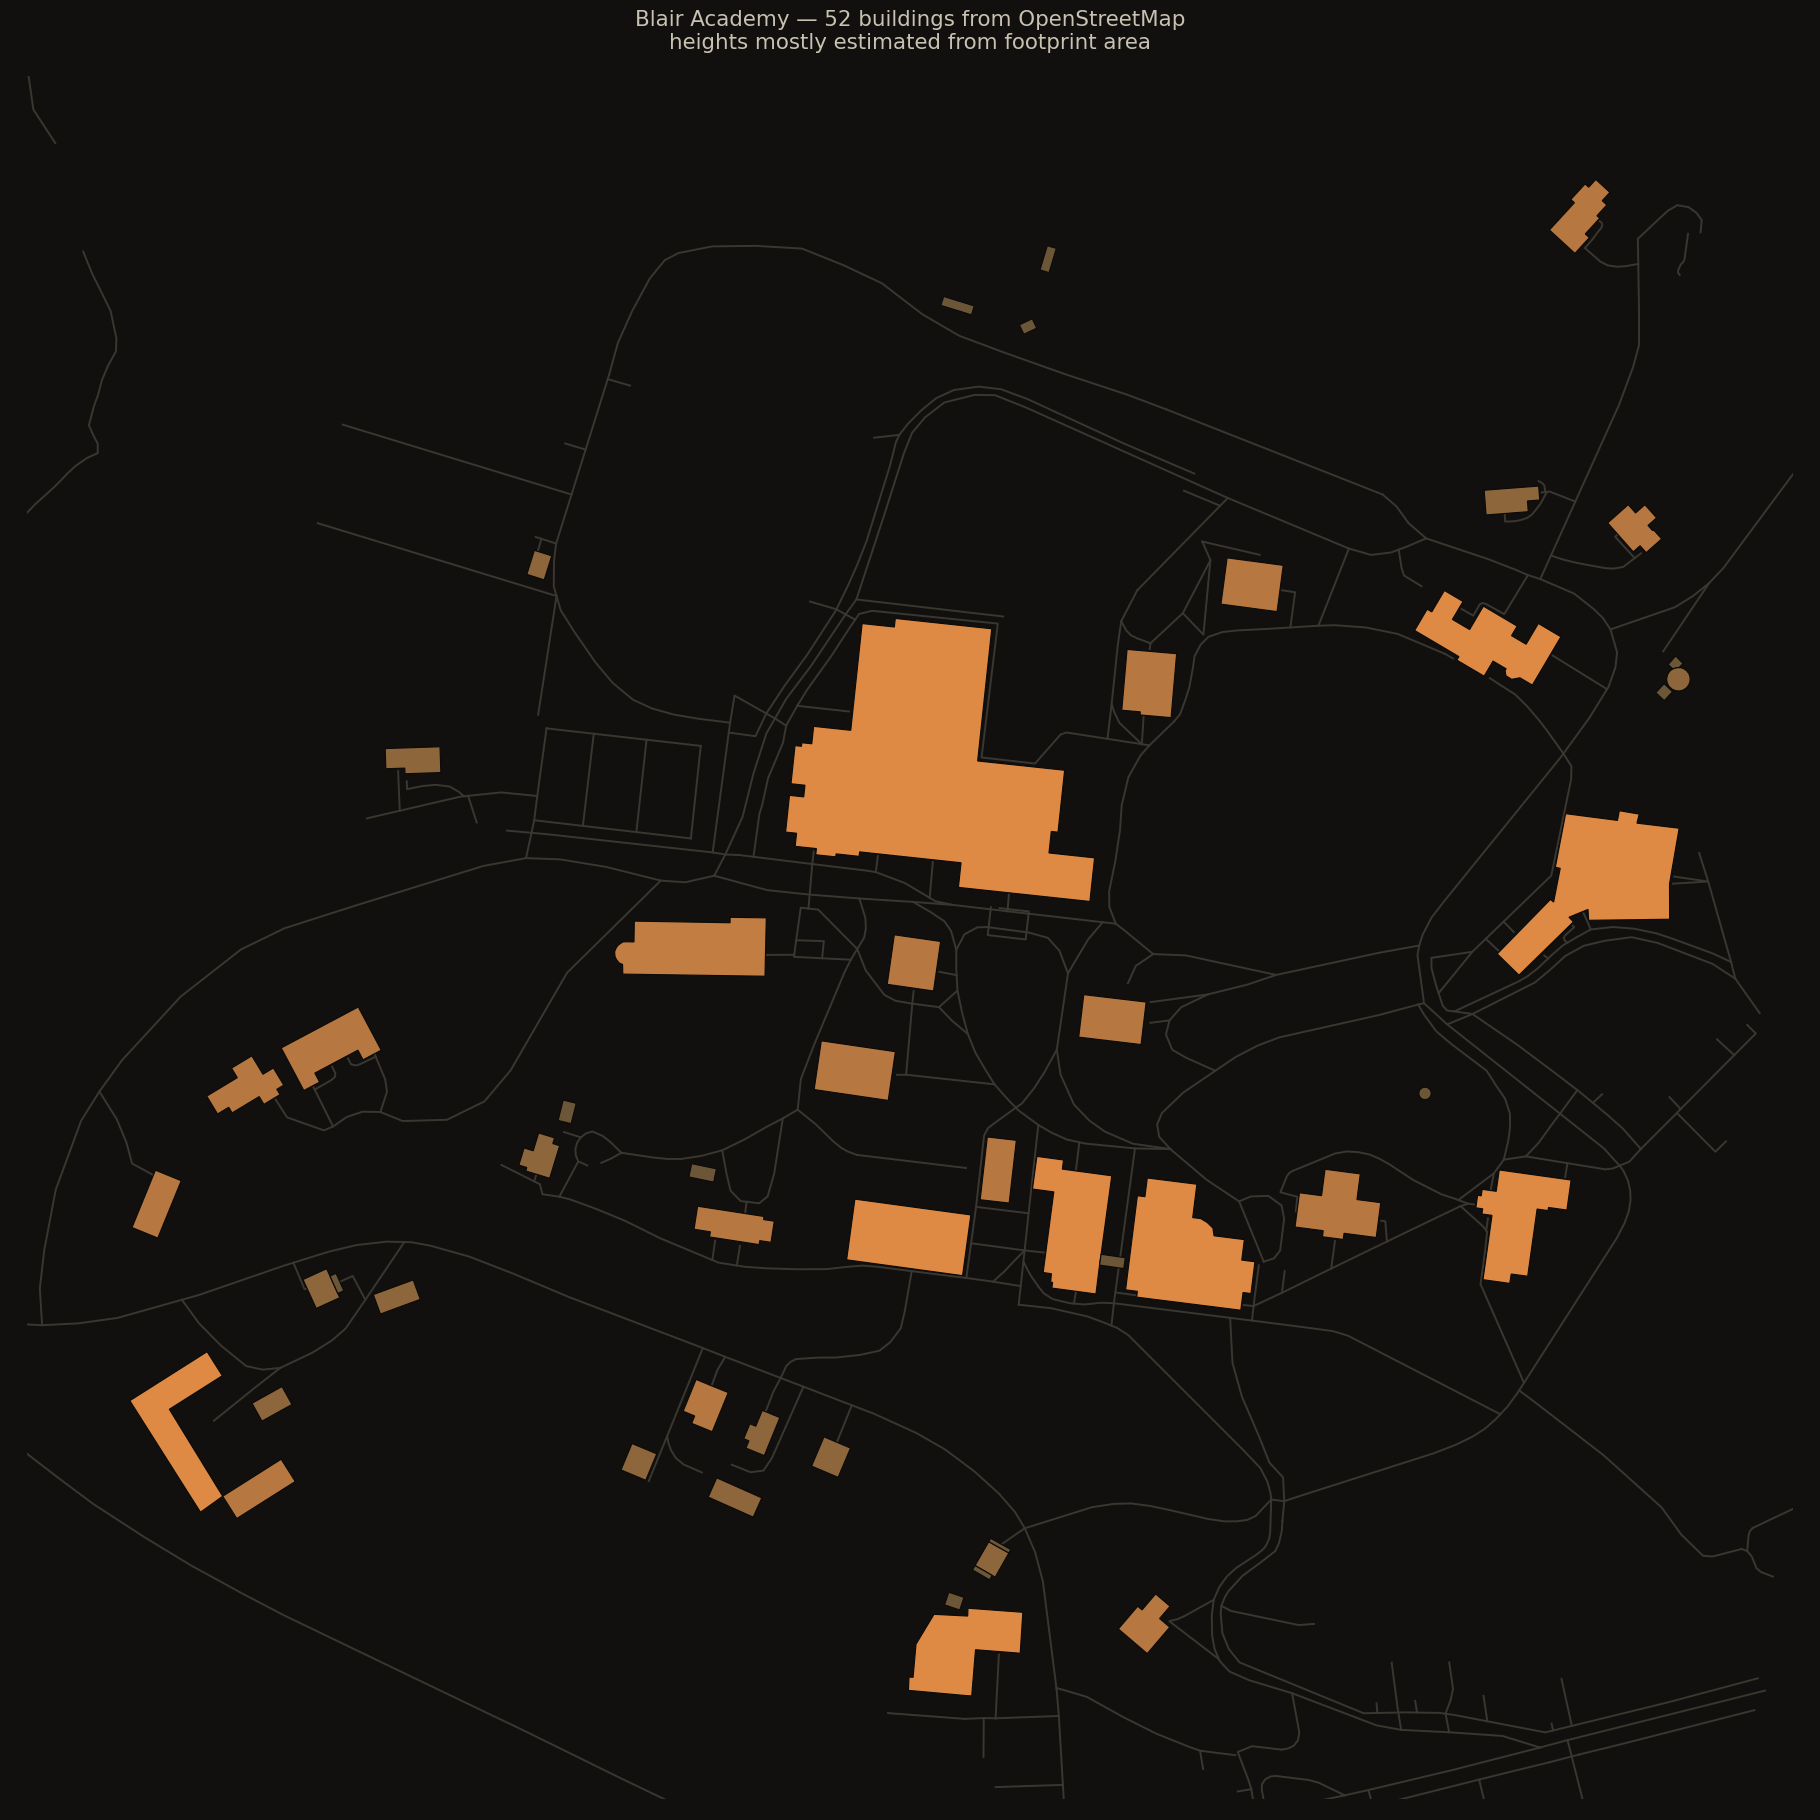
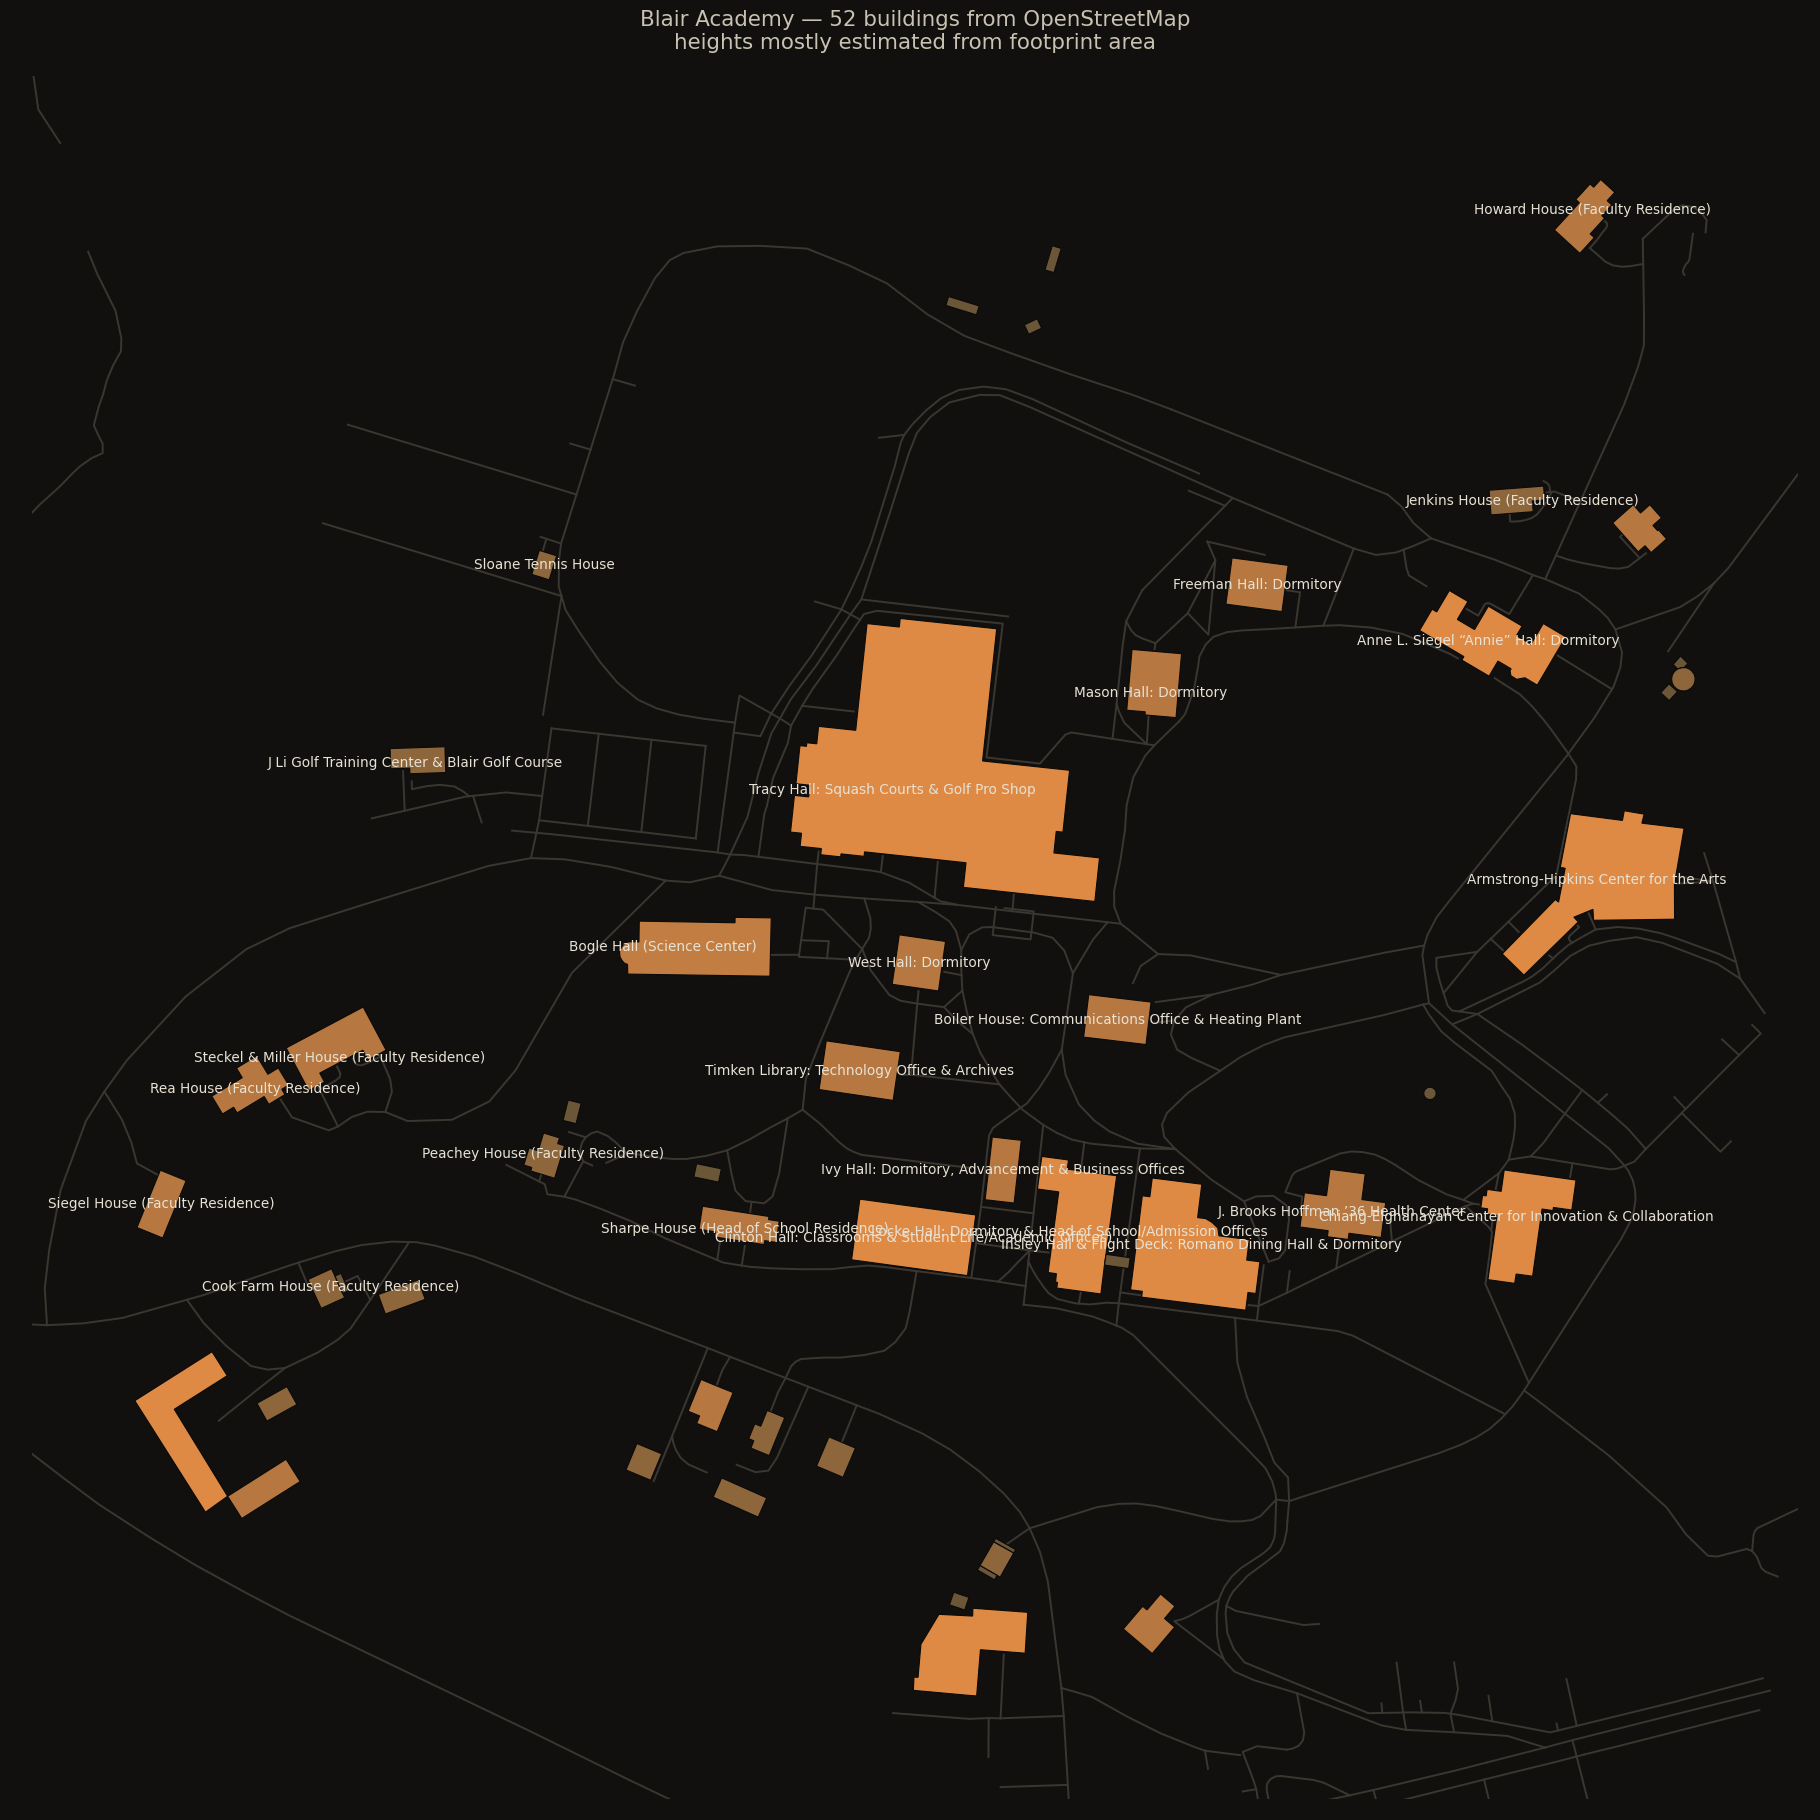
campus: stop the rebuild from wiping the names
build_campus.py regenerates campus.json from OSM, so running it after naming
would have silently destroyed all 25 names, plus any hand-corrected height and
any scene link. Those fields are the only things in that file a person made.
They are now merged back over the freshly derived records, and a height marked
'measured' outranks the area-based guess.

The merge also had to move ahead of the summary, which was reporting every
building as unnamed while writing the names to disk a moment later.

diff --git a/code/campus/build_campus.py b/code/campus/build_campus.py
@@ -284,6 +284,30 @@ def main():
     buildings, paths = build(data, args.radius)
     buildings.sort(key=lambda b: -b['area_m2'])
 
+    # Names, scene links and corrected heights live in campus.json and are the
+    # only things here a person made. Rebuilding from OSM must not destroy
+    # them, so they are merged back over the freshly derived records.
+    KEEP = ('name', 'also_houses', 'name_source', 'scene', 'status')
+    prior = {}
+    jpath = os.path.join(HERE, 'campus.json')
+    if os.path.exists(jpath):
+        with open(jpath) as fh:
+            for r in json.load(fh):
+                prior[r['id']] = {k: r[k] for k in KEEP if r.get(k) is not None}
+        # A height edited by hand outranks anything guessed from area.
+        for b in buildings:
+            was = prior.get(b['id'], {})
+            if was.get('height_source') in ('measured',):
+                b['height_m'] = was['height_m']
+                b['height_source'] = 'measured'
+
+    for b in buildings:
+        b.update(prior.get(b['id'], {}))
+    kept = sum(1 for b in buildings if b.get('name'))
+    if prior:
+        print(f'carried {kept} names forward from the existing campus.json')
+
+
     print(f'{len(buildings)} buildings, {len(paths)} paths')
     real = sum(1 for b in buildings if b['height_source'] != 'guessed')
     print(f'heights: {real} from OSM, {len(buildings) - real} estimated')
@@ -296,12 +320,14 @@ def main():
               f"{b['name'] or '(unnamed — id ' + str(b['id']) + ')'}")
 
     write_preview(buildings, paths, os.path.join(HERE, 'campus.png'))
+    written = ['campus.png']
     if not args.preview_only:
         write_obj(buildings, os.path.join(HERE, 'campus.obj'))
-        with open(os.path.join(HERE, 'campus.json'), 'w') as fh:
+        with open(jpath, 'w') as fh:
             json.dump([{k: v for k, v in b.items() if k != 'poly'}
                        for b in buildings], fh, indent=2)
-    print('\nwrote campus.png, campus.obj, campus.json')
+        written += ['campus.obj', 'campus.json']
+    print('\nwrote ' + ', '.join(written))
 
 
 if __name__ == '__main__':
